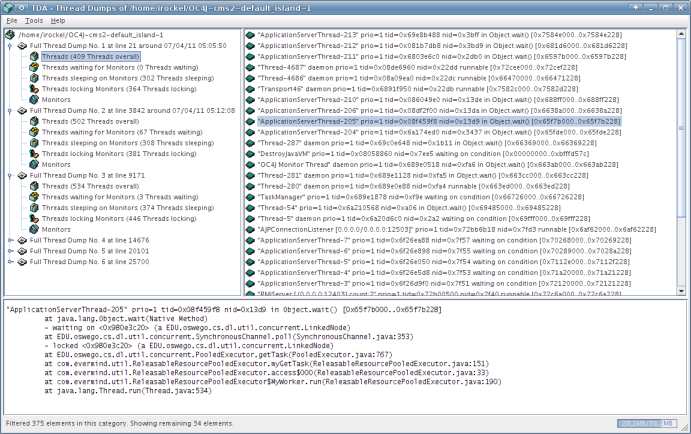
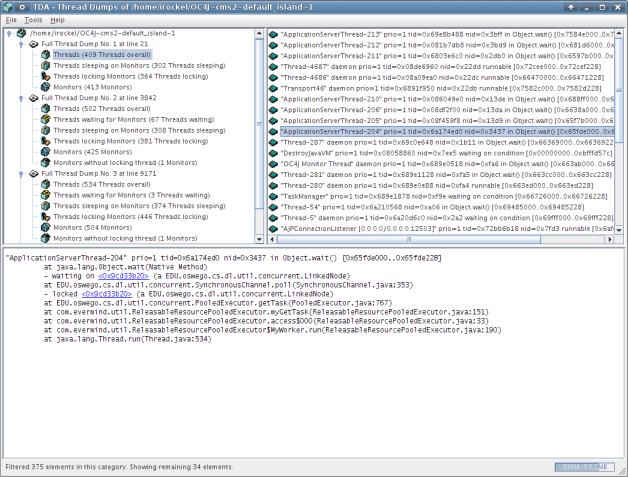
thread dump information, jstack information, 1.3 release infos

diff --git a/tda/src/java/com/pironet/tda/doc/tutorial.html b/tda/src/java/com/pironet/tda/doc/tutorial.html
@@ -28,6 +28,14 @@ otherwise you won't have sufficient rights to use the tool. The JDK will then wr
 to std-out. E.g. if your application is running in a tomcat, this would be catalina.out in a 
 default tomcat installation.</p>
 
+<p>Starting with Sun's JDK 1.5 you can also request a thread dump using th JVM utility <b>jstack</b>. jstack 
+prints the thread dump into the shell window where you called it. To use the dump in the TDA, pipe the output
+into a log file and open this file. To analyze multiple dumps just append them to the log file. jstack also 
+allows you to get thread dumps from javacore-files, either dumped on an OutOfMemoryError or using the
+JVM tool jmap.
+Note: On the windows platform this tool is available starting with JDK 1.6. 
+</p>
+
 <p><h3>Sample Parsing Session</h3>
 Open the log file you want to analyse, TDA will search for all thread dumps in this log file 
 and displays them in a tree. As the Sun JVM thread dump doesn't log any date information when the dump 
@@ -35,15 +43,20 @@ was requested, you can provide a regular expression in the <b>Preferences</b> wh
 for parsing the lines before the thread dump to get a time stamp (see below for an example).</p>
 
 <p>For each thread dump TDA sums up all found threads and all monitors found in the threads, it 
-also groups threads waiting on, for and locking monitors.</p> 
+also groups threads waiting on, for and locking monitors. Clicking on the dump nodes itself will
+provide you with information about the dump. If there is something special about it, TDA will give
+you some hints what to do next.</p> 
 
 <p><center><img src="threaddumps.png" border=0>
 <br><i>Thread Dump View</i></center></p>
 
-<p>If you want to focus on a lock found in a thread you can just mark it, expand the <b>Monitor</b> 
-node of the thread dump and right-click on right pane with the monitors and select the search. Paste the marked monitor 
-into the search dialog to go to the information about this monitor (don't forget the trailing &gt;. You will get all waiting and all 
-locking threads of this monitor. Starting here you can easily see if a thread is hanging and holding lock which a lot 
+<p>If you want to focus on a lock found in a thread you can just click on the monitor,  TDA will then 
+expand the <b>Monitor</b> node of the thread dump and focus the clicked monitor. It will also give you
+information about the monitor if there is something special about, e.g. it has no obvious thread locking
+the monitor but others waiting for it.</p>
+<p><center><img src="info.png" border=0>
+<br><i>Information about the selected dump</i></center></p>
+<p>Starting here you can easily see if a thread is hanging and holding lock which a lot 
 of other threads are waiting for. If there aren't any locking threads but only waiting threads it is
 very likely the garbage collector is locking the monitor currently.</p>
 <p><center><img src="monitor.png" border=0>
